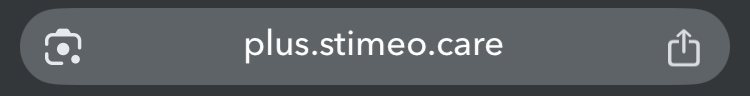
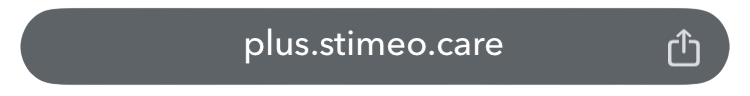
new splash page

Changed region(s): [[0.0, 0.0, 1.0, 1.0]]

diff --git a/src/pages/preinstall/Splash.vue b/src/pages/preinstall/Splash.vue
@@ -1,53 +1,315 @@
-<script setup lang="ts">
-import { useRouter } from 'vue-router'
-const router = useRouter()
-const go = (name: string) => router.push({ name })
+<script setup
+        lang="ts">
+
+import {onMounted, ref} from "vue";
+
+const activeTab = ref('ios');
+const activeBrowser = ref('safari');
+
+const baseTabClasses = 'flex-1 py-3 px-6 rounded-lg font-medium text-center transition-all duration-200 flex items-center justify-center gap-2';
+const activeClasses = 'bg-white text-gray-900 shadow-sm ring-1 ring-gray-900/5';
+const inactiveClasses = 'text-gray-600 hover:text-gray-900 hover:bg-gray-200/50';
+
+onMounted(() => {
+  if (typeof window === 'undefined') return;
+
+  const ua = navigator.userAgent || '';
+
+  // ─────────────────────────────────────────────
+  // OS
+  // ─────────────────────────────────────────────
+
+  const isAndroid = /Android/i.test(ua);
+
+  const isIOS =
+    /iPhone|iPad|iPod/i.test(ua) ||
+    (
+      navigator.platform === 'MacIntel' &&
+      navigator.maxTouchPoints > 1
+    );
+
+  // ─────────────────────────────────────────────
+  // Navigateurs
+  // ─────────────────────────────────────────────
+
+  const isChrome =
+    /Chrome|CriOS/i.test(ua) &&
+    !/Edg|OPR|SamsungBrowser/i.test(ua);
+
+  const isSafari =
+    /Safari/i.test(ua) &&
+    !/Chrome|CriOS|Android|FxiOS|EdgiOS|OPiOS/i.test(ua);
+
+  // ─────────────────────────────────────────────
+  // Détection
+  // ─────────────────────────────────────────────
+
+  if (isAndroid) {
+
+    activeTab.value = 'android';
+
+    if (isChrome) {
+      activeBrowser.value = 'chrome';
+    }
+
+  } else if (isIOS) {
+
+    activeTab.value = 'ios';
+
+    if (isChrome) {
+      activeBrowser.value = 'chrome';
+    } else if (isSafari) {
+      activeBrowser.value = 'safari';
+    }
+  }
+});
+
 </script>
 
 <template>
-  <section class="mx-auto grid min-h-svh max-w-md gap-4 px-4 py-6 overflow-hidden sm:pt-6">
 
-    <div class="rounded-2xl border-2 border-slate-300 bg-white p-6 shadow-card">
-
-      <img loading="lazy" src="/stimeoplus_logo.png" alt="" style="width: 150px; margin:auto"/>
-
-      <div style="max-height: 80px; margin: auto;width: fit-content; margin-top: 20px;margin-bottom: 20px; text-align: center">
-        <h1 class="text-xl font-semibold text-brand-600">Installez l'App sur votre mobile</h1>
+  <header class="bg-white border-b border-gray-200 py-10 px-4 mb-8">
+    <div class="max-w-3xl mx-auto text-center">
+      <div class="inline-flex items-center justify-center mb-4">
+        <img src="/stimeoplus_logo.png"
+             width="200px"/>
       </div>
-
-      <div class="div-btn text-brand-600 text-center">
-        <div @click="go('chrome')" style="padding: 35px">
-          <img width="70" height="70" style="margin: auto" src="/chrome.png" />
-          <br/>
-          <span>Instructions<br/>Chrome</span>
-        </div>
-      </div>
-
-      <div class="div-btn text-brand-600 text-center">
-        <div @click="go('safari')" style="padding: 35px">
-          <img width="70" height="70" style="margin: auto" src="/safari.png" />
-          <br/>
-          <span>Instructions<br/>Safari</span>
-        </div>
-      </div>
-
+      <h1 class="text-3xl md:text-4xl font-bold text-gray-900 mb-3">
+        Installer l'application sur votre smartphone
+      </h1>
+      <p class="text-gray-600 text-lg max-w-xl mx-auto">
+        Ajoutez un raccourci directement sur votre écran d'accueil pour y accéder rapidement en un
+        clic.
+      </p>
     </div>
-  </section>
+  </header>
+
+  <main class="max-w-3xl mx-auto px-4 pb-20 bg-white">
+    <!-- Tab Controls OS -->
+    <div class="flex flex-col sm:flex-row p-1 bg-gray-200/60 rounded-xl mb-8 shadow-sm border">
+      <button
+        @click="activeTab = 'ios'"
+        :class="[baseTabClasses, activeTab === 'ios' ? activeClasses : inactiveClasses]">
+        <i class="fa-brands fa-apple text-xl"></i> iPhone / iPad (iOS)
+      </button>
+      <button
+        @click="activeTab = 'android'"
+        :class="[baseTabClasses, activeTab === 'android' ? activeClasses : inactiveClasses]">
+        <i class="fa-brands fa-android text-xl text-green-500"></i> Android
+      </button>
+    </div>
+
+    <!-- iOS Section -->
+    <div v-if="activeTab === 'ios'"
+         class="fade-in">
+      <div
+        class="bg-white rounded-2xl border border-gray-100 relative overflow-hidden transition-all duration-300"
+        :class="activeBrowser === 'safari' ? 'shadow-[-8px_0_15px_-3px_rgba(59,130,246,0.25)]' : 'shadow-[-8px_0_15px_-3px_rgba(34,197,94,0.25)]'"
+      >
+
+        <!-- Bande latérale dynamique (Bleu pour Safari / Vert pour Chrome) -->
+        <div
+          class="absolute top-0 left-0 w-1 h-full transition-colors duration-300"
+          :class="activeBrowser === 'safari' ? 'bg-blue-500' : 'bg-green-500'"
+        ></div>
+
+        <div class="p-6 md:p-8">
+          <!-- En-têtes / Sélecteurs de navigateur -->
+          <div class="flex flex-row border-b border-gray-100 mb-6">
+
+            <!-- Partie Gauche : Safari -->
+            <div
+              @click="activeBrowser = 'safari'"
+              class="w-1/2 flex items-start sm:items-center gap-3 pb-4 border-b-2 cursor-pointer transition-all duration-200 pr-2"
+              :class="activeBrowser === 'safari' ? 'border-blue-500 opacity-100' : 'border-transparent opacity-50 grayscale hover:opacity-100 hover:grayscale-0'"
+            >
+              <div class="bg-blue-50 p-2 sm:p-3 rounded-lg text-blue-500 shrink-0">
+                <img src="/safari.png"
+                     class="w-8 sm:w-[40px]"
+                     alt="Safari"/>
+              </div>
+              <div>
+                <h2 class="text-base sm:text-xl font-bold text-gray-900 leading-tight">Avec
+                  Safari</h2>
+                <p class="text-xs sm:text-sm text-gray-500 mt-0.5 hidden sm:block">Navigateur par
+                  défaut sur iPhone et iPad</p>
+                <p class="text-xs text-gray-500 mt-0.5 sm:hidden">Par défaut</p>
+              </div>
+            </div>
+
+            <!-- Partie Droite : Chrome -->
+            <div
+              @click="activeBrowser = 'chrome'"
+              class="w-1/2 flex items-start sm:items-center gap-3 pb-4 border-b-2 cursor-pointer transition-all duration-200 pl-2 sm:pl-4"
+              :class="activeBrowser === 'chrome' ? 'border-green-500 opacity-100 border-l-0' : 'border-transparent opacity-50 grayscale hover:opacity-100 hover:grayscale-0 border-l border-gray-100'"
+            >
+              <div class="p-2 sm:p-3 rounded-lg text-green-600 shrink-0"
+                   :class="activeBrowser === 'chrome' ? 'bg-green-50' : 'bg-gray-50'">
+                <img src="/chrome.png"
+                     class="w-8 sm:w-[40px]"
+                     alt="Chrome"/>
+              </div>
+              <div>
+                <h2 class="text-base sm:text-xl font-bold text-gray-900 leading-tight">Avec
+                  Chrome</h2>
+                <p class="text-xs sm:text-sm text-gray-500 mt-0.5 hidden sm:block">Pour les
+                  utilisateurs de Chrome sur iOS</p>
+                <p class="text-xs text-gray-500 mt-0.5 sm:hidden">Alternative</p>
+              </div>
+            </div>
+          </div>
+
+          <!-- Instructions Safari (Puces Bleues) -->
+          <ol v-if="activeBrowser === 'safari'"
+              class="space-y-4 text-gray-700 fade-in">
+            <li class="flex gap-3">
+              <span class="flex-shrink-0 w-6 h-6 rounded-full bg-blue-100 text-blue-700 flex items-center justify-center text-sm font-bold mt-0.5">1</span>
+              <p>Ouvrez la page web depuis le navigateur <strong>Safari</strong>.</p>
+            </li>
+            <li class="flex gap-3">
+              <span class="flex-shrink-0 w-6 h-6 rounded-full bg-blue-100 text-blue-700 flex items-center justify-center text-sm font-bold mt-0.5">2</span>
+              <p>
+                Appuyez sur l'icône <strong>Partager</strong> <img style="display: inline"
+                                                                   src="//storage.googleapis.com/support-kms-prod/Oi0DNDXtcV89telFhTPd7Okn7yoTpSfkX19z"
+                                                                   width="25"
+                                                                   height="25"
+                                                                   alt=""
+                                                                   data-mime-type="image/svg+xml">
+                située dans la barre d'adresse, à droite.
+                <img src="/chrome1.png"
+                     style="height: 30px; display: inline-block; margin-left: 5px;"/>
+              </p>
+            </li>
+            <li class="flex gap-3">
+              <span class="flex-shrink-0 w-6 h-6 rounded-full bg-blue-100 text-blue-700 flex items-center justify-center text-sm font-bold mt-0.5">3</span>
+              <p>Faites défiler le menu vers le bas et sélectionnez <strong>Sur l'écran
+                d'accueil</strong>
+                <i class="fa-regular fa-square-plus mx-1 text-gray-500 bg-gray-100 p-1.5 rounded text-sm"></i>.
+              </p>
+            </li>
+            <li class="flex gap-3">
+              <span class="flex-shrink-0 w-6 h-6 rounded-full bg-blue-100 text-blue-700 flex items-center justify-center text-sm font-bold mt-0.5">4</span>
+              <p>Appuyez sur <strong>Ajouter</strong> en haut à droite de l'écran pour confirmer.
+              </p>
+            </li>
+          </ol>
+
+          <!-- Instructions Chrome (Puces Vertes) -->
+          <ol v-if="activeBrowser === 'chrome'"
+              class="space-y-4 text-gray-700 fade-in">
+            <li class="flex gap-3">
+              <span class="flex-shrink-0 w-6 h-6 rounded-full bg-green-100 text-green-700 flex items-center justify-center text-sm font-bold mt-0.5">1</span>
+              <p>Ouvrez la page web depuis l'application <strong>Google Chrome</strong>.</p>
+            </li>
+            <li class="flex gap-3">
+              <span class="flex-shrink-0 w-6 h-6 rounded-full bg-green-100 text-green-700 flex items-center justify-center text-sm font-bold mt-0.5">2</span>
+              <p>
+                Appuyez sur l'icône <strong>Partager</strong> <img style="display: inline"
+                                                                   src="//storage.googleapis.com/support-kms-prod/Oi0DNDXtcV89telFhTPd7Okn7yoTpSfkX19z"
+                                                                   width="25"
+                                                                   height="25"
+                                                                   alt=""
+                                                                   data-mime-type="image/svg+xml">
+                située dans la barre d'adresse, à droite.
+                <img src="/chrome1.png"
+                     style="height: 30px; display: inline-block; margin-left: 5px;"/>
+              </p>
+            </li>
+            <li class="flex gap-3">
+              <span class="flex-shrink-0 w-6 h-6 rounded-full bg-green-100 text-green-700 flex items-center justify-center text-sm font-bold mt-0.5">3</span>
+              <p>Faites défiler le menu et sélectionnez l'option <strong>Sur l'écran
+                d'accueil</strong>
+                <i class="fa-regular fa-square-plus mx-1 text-gray-500 bg-gray-100 p-1.5 rounded text-sm"></i>.
+              </p>
+            </li>
+            <li class="flex gap-3">
+              <span class="flex-shrink-0 w-6 h-6 rounded-full bg-green-100 text-green-700 flex items-center justify-center text-sm font-bold mt-0.5">4</span>
+              <p>Appuyez sur <strong>Ajouter</strong>.</p>
+            </li>
+          </ol>
+
+          <!-- Message final -->
+          <div class="mt-6 bg-yellow-50 text-yellow-800 text-sm p-4 rounded-xl flex gap-3 items-start border border-yellow-100">
+            <img src="/pwa-192x192.png"
+                 class="w-16 h-16 mt-0.5 shrink-0"
+                 alt="Icône Stimeo+"/>
+            <p class="mt-2">L'icône Stimeo+ est maintenant installée sur votre écran d'accueil.
+              Cliquez dessus pour continuer avec l'App.</p>
+          </div>
+
+        </div>
+      </div>
+    </div>
+
+    <!-- Android Section -->
+    <div v-if="activeTab === 'android'"
+         class="fade-in space-y-6">
+      <div class="bg-white rounded-2xl border border-gray-100 p-6 md:p-8 relative overflow-hidden shadow-[-8px_0_15px_-3px_rgba(34,197,94,0.25)]">
+        <div class="absolute top-0 left-0 w-1 h-full bg-green-500"></div>
+        <div class="flex items-center gap-4 mb-5 border-b border-gray-100 pb-4">
+          <div class="bg-green-50 p-3 rounded-lg text-green-600">
+            <img src="/chrome.png"
+                 width="40px"/>
+          </div>
+          <div>
+            <h2 class="text-xl font-bold text-gray-900">Avec Google Chrome</h2>
+            <p class="text-sm text-gray-500">Méthode recommandée sur les smartphones Android</p>
+          </div>
+        </div>
+
+        <ol class="space-y-4 text-gray-700">
+          <li class="flex gap-3">
+            <span class="flex-shrink-0 w-6 h-6 rounded-full bg-green-100 text-green-700 flex items-center justify-center text-sm font-bold mt-0.5">1</span>
+            <p>Ouvrez la page web depuis le navigateur <strong>Google Chrome</strong>.</p>
+          </li>
+          <li class="flex gap-3">
+            <span class="flex-shrink-0 w-6 h-6 rounded-full bg-green-100 text-green-700 flex items-center justify-center text-sm font-bold mt-0.5">2</span>
+            <p>Appuyez sur le menu représentant <strong>trois points verticaux</strong>
+              <i class="fa-solid fa-ellipsis-vertical mx-1 text-gray-600 bg-gray-100 px-2 py-1 rounded text-sm"></i>
+              situé en haut à droite de l'écran.</p>
+          </li>
+          <li class="flex gap-3">
+            <span class="flex-shrink-0 w-6 h-6 rounded-full bg-green-100 text-green-700 flex items-center justify-center text-sm font-bold mt-0.5">3</span>
+            <p>Dans le menu déroulant, sélectionnez l'option <strong>Installer et créer un
+              raccourci</strong> (ou <strong>Ajouter à l'écran d'accueil</strong> sur les versions
+              plus anciennes).</p>
+          </li>
+          <li class="flex gap-3">
+            <span class="flex-shrink-0 w-6 h-6 rounded-full bg-green-100 text-green-700 flex items-center justify-center text-sm font-bold mt-0.5">4</span>
+            <p>Une fenêtre de confirmation apparaît. Appuyez sur <strong>Installer</strong> ou
+              <strong>Ajouter</strong>.</p>
+          </li>
+        </ol>
+
+        <div class="mt-6 bg-yellow-50 text-yellow-800 text-sm p-4 rounded-xl flex gap-3 items-start border border-yellow-100">
+          <img src="/pwa-192x192.png"
+               class="w-16 h-16 mt-0.5 shrink-0"
+               alt="Icône Stimeo+"/>
+          <p class="mt-2">L'icône Stimeo+ est maintenant installée sur votre écran d'accueil.
+            Cliquez dessus pour continuer avec l'App.</p>
+        </div>
+      </div>
+    </div>
+
+  </main>
+
 </template>
 
 <style scoped>
 
-.div-btn{
-  width: 50%;
-  float: left;
+.fade-in {
+  animation: fadeIn 0.3s ease-in-out;
 }
 
-.btn{
-  min-width: 115px;
-}
-
-.shadow-card{
-  height: fit-content;
+@keyframes fadeIn {
+  from {
+    opacity: 0;
+    transform: translateY(5px);
+  }
+  to {
+    opacity: 1;
+    transform: translateY(0);
+  }
 }
 
 </style>

diff --git a/src/App.vue b/src/App.vue
@@ -11,6 +11,19 @@ const requiresAuth = computed(() => {
   return route.meta?.requiresAuth
 })
 
+const isSplash = computed(() => {
+  return route.meta?.isSplash
+})
+
+
+const computedClassForMain = computed(() => {
+
+  if(isSplash.value) return "pt-safe bg-white"
+  else if(requiresAuth.value) return "pt-safe pb-[92px] pb-safe"
+  else return "pt-safe"
+
+})
+
 onMounted(() => {
   syncStorageData()
 })
@@ -19,7 +32,7 @@ onMounted(() => {
 
 <template>
   <div class="min-h-screen overflow-x-hidden overflow-y-auto bg-[#e0d8a0] text-gray-900 dark:bg-gray-900 dark:text-gray-100">
-    <main :class="[requiresAuth ? 'pt-safe pb-[92px] pb-safe' : 'pt-safe']" class="flex flex-col sm:block">
+    <main :class="computedClassForMain" class="flex flex-col sm:block">
       <TopBar v-if="requiresAuth" />
       <router-view />
     </main>

diff --git a/src/router/index.ts b/src/router/index.ts
@@ -34,7 +34,7 @@ import {wrapLocalStorage} from "@/services/storage.service.ts";
 const {user} = wrapLocalStorage()
 
 const routes: RouteRecordRaw[] = [
-    { path: '/', name: 'splash', component: Splash, meta: { requiresAuth: false } },
+    { path: '/', name: 'splash', component: Splash, meta: { isSplash: true, requiresAuth: false } },
     { path: '/safari', name: 'safari', component: Safari, meta: { requiresAuth: false } },
     { path: '/chrome', name: 'chrome', component: Chrome, meta: { requiresAuth: false } },
 
